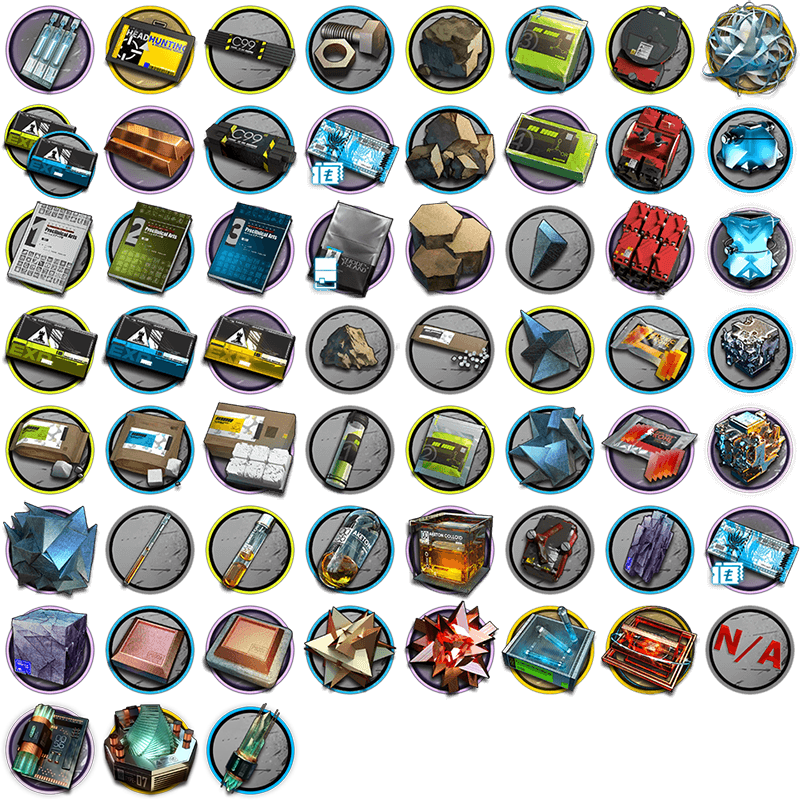
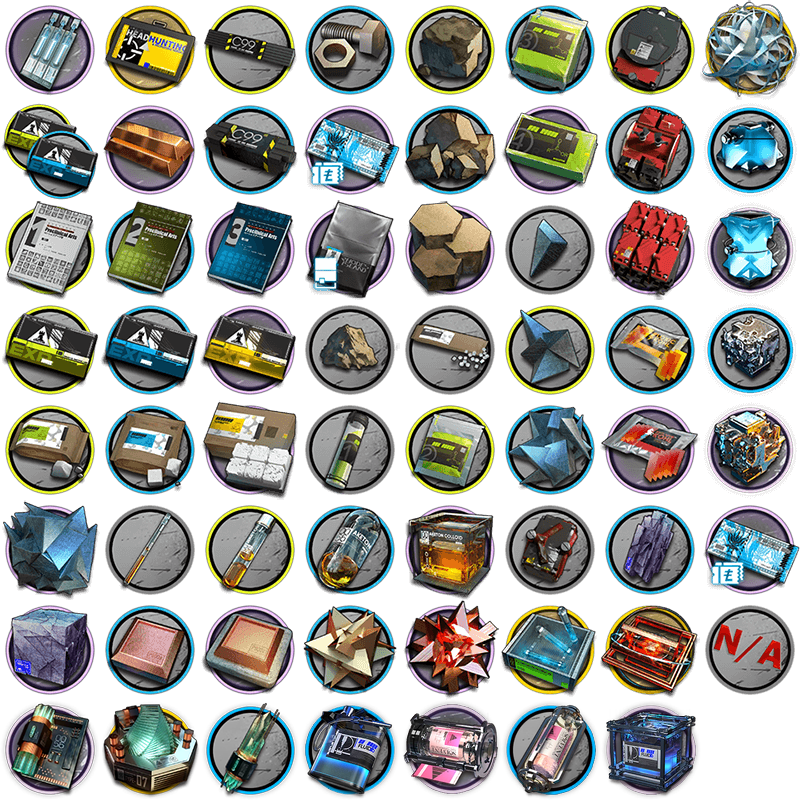
feat(add) Chapter9 materials

Changed region(s): [[0.375, 0.875, 0.875, 1.0]]

diff --git a/client/src/react-components/MaterialTable/index.js b/client/src/react-components/MaterialTable/index.js
@@ -54,7 +54,7 @@ class MaterialTable extends BaseComponent {
         })
     }
 
-    indices = [0, 1, 2, 3, 4, 5, 6, 7, 8, 9, 10, 11, 12]
+    indices = [0, 1, 2, 3, 4, 5, 6, 7, 8, 9, 10, 11, 12, 13, 14]
 
     dataLoading(server) {
         let serverTag = ''
@@ -2275,7 +2275,104 @@ class MaterialTable extends BaseComponent {
 
                                     )
 
-                                } else {
+                                } else if (i === 13 || i === 14) {
+                                    return (
+                                        <TableRow>
+                                            <TableCell/>
+                                            <TableCell>
+                                                <Tooltip title={<FormattedMessage id={currentData.t4[i].id} />} arrow>
+                                                    <span className={'material spriteMT-4 material-MT-' + currentData.t4[i].id}></span>
+
+                                                </Tooltip>
+                                            </TableCell>
+
+                                            <TableCell>
+                                                <Tooltip title={<FormattedMessage id={currentData.t3[i].id} />} arrow>
+                                                    <span className={'material spriteMT-4 material-MT-' + currentData.t3[i].id}></span>
+
+                                                </Tooltip>
+                                            </TableCell>
+                                            <TableCell colSpan={2}>
+
+                                                {(currentData.considerEventStages ? currentData.t3[i].lowest_ap_stages.event : currentData.t3[i].lowest_ap_stages.normal).length === 0 && <h3 style={{ display: 'inline', whiteSpace: 'nowrap' }} className='textTips'>{<FormattedMessage id='recommend' />}</h3>}
+
+                                                {(currentData.considerEventStages ? currentData.t3[i].lowest_ap_stages.event : currentData.t3[i].lowest_ap_stages.normal).map((stages) => {
+                                                    return (
+                                                        <div className='stageWrapper'>
+                                                            {stages.extra_drop.map((loots) => {
+                                                                return (
+                                                                    <Tooltip title={<span><FormattedMessage id='extraDrop' />: <FormattedMessage id={loots.id} /></span>} arrow>
+                                                                        <span className={'material extraDropWrap material-MT-' + loots.id}></span>
+                                                                    </Tooltip>)
+                                                            })
+                                                            }
+                                                            <p className='lowestAPStage'>{stages.code}</p>
+
+                                                            {this.state.detailMode && <div style={{ display: 'inline', position: 'absolute' }}>
+
+                                                                <Tooltip title={<FormattedMessage id='dropRate' />} arrow placement='right'><span className=""><p className='lowestAPStageDetails'>{`${(stages.drop_rate * 100).toFixed()}%`}</p></span></Tooltip>
+                                                                <Tooltip title={<FormattedMessage id='efficiency' />} arrow placement='right'><span className=""><p className='lowestAPStageDetails'>{stages.efficiency}</p></span></Tooltip>
+                                                                <Tooltip title={<FormattedMessage id='expected' />} arrow placement='right'><span className=""><p className='lowestAPStageDetails'>{stages.ap_per_item}</p></span></Tooltip>
+
+                                                            </div>
+                                                            }
+                                                        </div>
+                                                    )
+                                                })}
+                                                {!this.state.showBestOnly && (currentData.considerEventStages ? currentData.t3[i].balanced_stages.event : currentData.t3[i].balanced_stages.normal).map((stages) => {
+                                                    return (
+                                                        <div className='stageWrapper'>
+                                                            {stages.extra_drop.map((loots) => {
+                                                                return (
+                                                                    <Tooltip title={<span><FormattedMessage id='extraDrop' />: <FormattedMessage id={loots.id} /></span>} arrow>
+                                                                        <span className={'material extraDropWrap material-MT-' + loots.id}></span>
+                                                                    </Tooltip>
+                                                                )
+                                                            })
+                                                            }
+                                                            <p className='balancedStage'>{stages.code}</p>
+
+                                                            {this.state.detailMode && <div style={{ display: 'inline', position: 'absolute' }}>
+
+                                                                <Tooltip title={<FormattedMessage id='dropRate' />} arrow placement='right'><span className=""><p className='balancedStageDetails'>{`${(stages.drop_rate * 100).toFixed()}%`}</p></span></Tooltip>
+                                                                <Tooltip title={<FormattedMessage id='efficiency' />} arrow placement='right'><span className=""><p className='balancedStageDetails'>{stages.efficiency}</p></span></Tooltip>
+                                                                <Tooltip title={<FormattedMessage id='expected' />} arrow placement='right'><span className=""><p className='balancedStageDetails'>{stages.ap_per_item}</p></span></Tooltip>
+                                                            </div>}
+                                                        </div>
+                                                    )
+                                                })}
+
+                                                {!this.state.showBestOnly && (currentData.considerEventStages ? currentData.t3[i].drop_rate_first_stages.event : currentData.t3[i].drop_rate_first_stages.normal).map((stages) => {
+                                                    return (
+                                                        <div className='stageWrapper'>
+                                                            {stages.extra_drop.map((loots) => {
+                                                                return (
+                                                                    <Tooltip title={<span><FormattedMessage id='extraDrop' />: <FormattedMessage id={loots.id} /></span>} arrow>
+                                                                        <span className={'material extraDropWrap material-MT-' + loots.id}></span>
+                                                                    </Tooltip>)
+                                                            })
+                                                            }
+                                                            <p className='dropRateFirstStage'>{stages.code}</p>
+
+                                                            {this.state.detailMode && <div style={{ display: 'inline', position: 'absolute' }}>
+
+                                                                <Tooltip title={<FormattedMessage id='dropRate' />} arrow placement='right'><span className=""><p className='dropRateFirstStageDetails'>{`${(stages.drop_rate * 100).toFixed()}%`}</p></span></Tooltip>
+                                                                <Tooltip title={<FormattedMessage id='efficiency' />} arrow placement='right'><span className=""><p className='dropRateFirstStageDetails'>{stages.efficiency}</p></span></Tooltip>
+                                                                <Tooltip title={<FormattedMessage id='expected' />} arrow placement='right'><span className=""><p className='dropRateFirstStageDetails'>{stages.ap_per_item}</p></span></Tooltip>
+                                                            </div>}
+                                                        </div>
+                                                    )
+                                                })}
+                                            </TableCell>
+
+                                        </TableRow>
+
+
+                                    )
+
+                                }
+
+                                else {
                                     return (
                                         <TableRow>
                                             <TableCell>

diff --git a/client/src/react-components/MaterialTable/materials.scss b/client/src/react-components/MaterialTable/materials.scss
@@ -198,3 +198,15 @@
 .material-placeholder {
   background-position: 100% 85.714%;
 }
+.material-MT-31054 {
+  background-position: 85.714% 100% ;
+}
+.material-MT-31043 {
+  background-position: 71.429% 100% ;
+}
+.material-MT-31044 {
+  background-position: 57.143% 100% ;
+}
+.material-MT-31053 {
+  background-position: 42.857% 100% ;
+}
